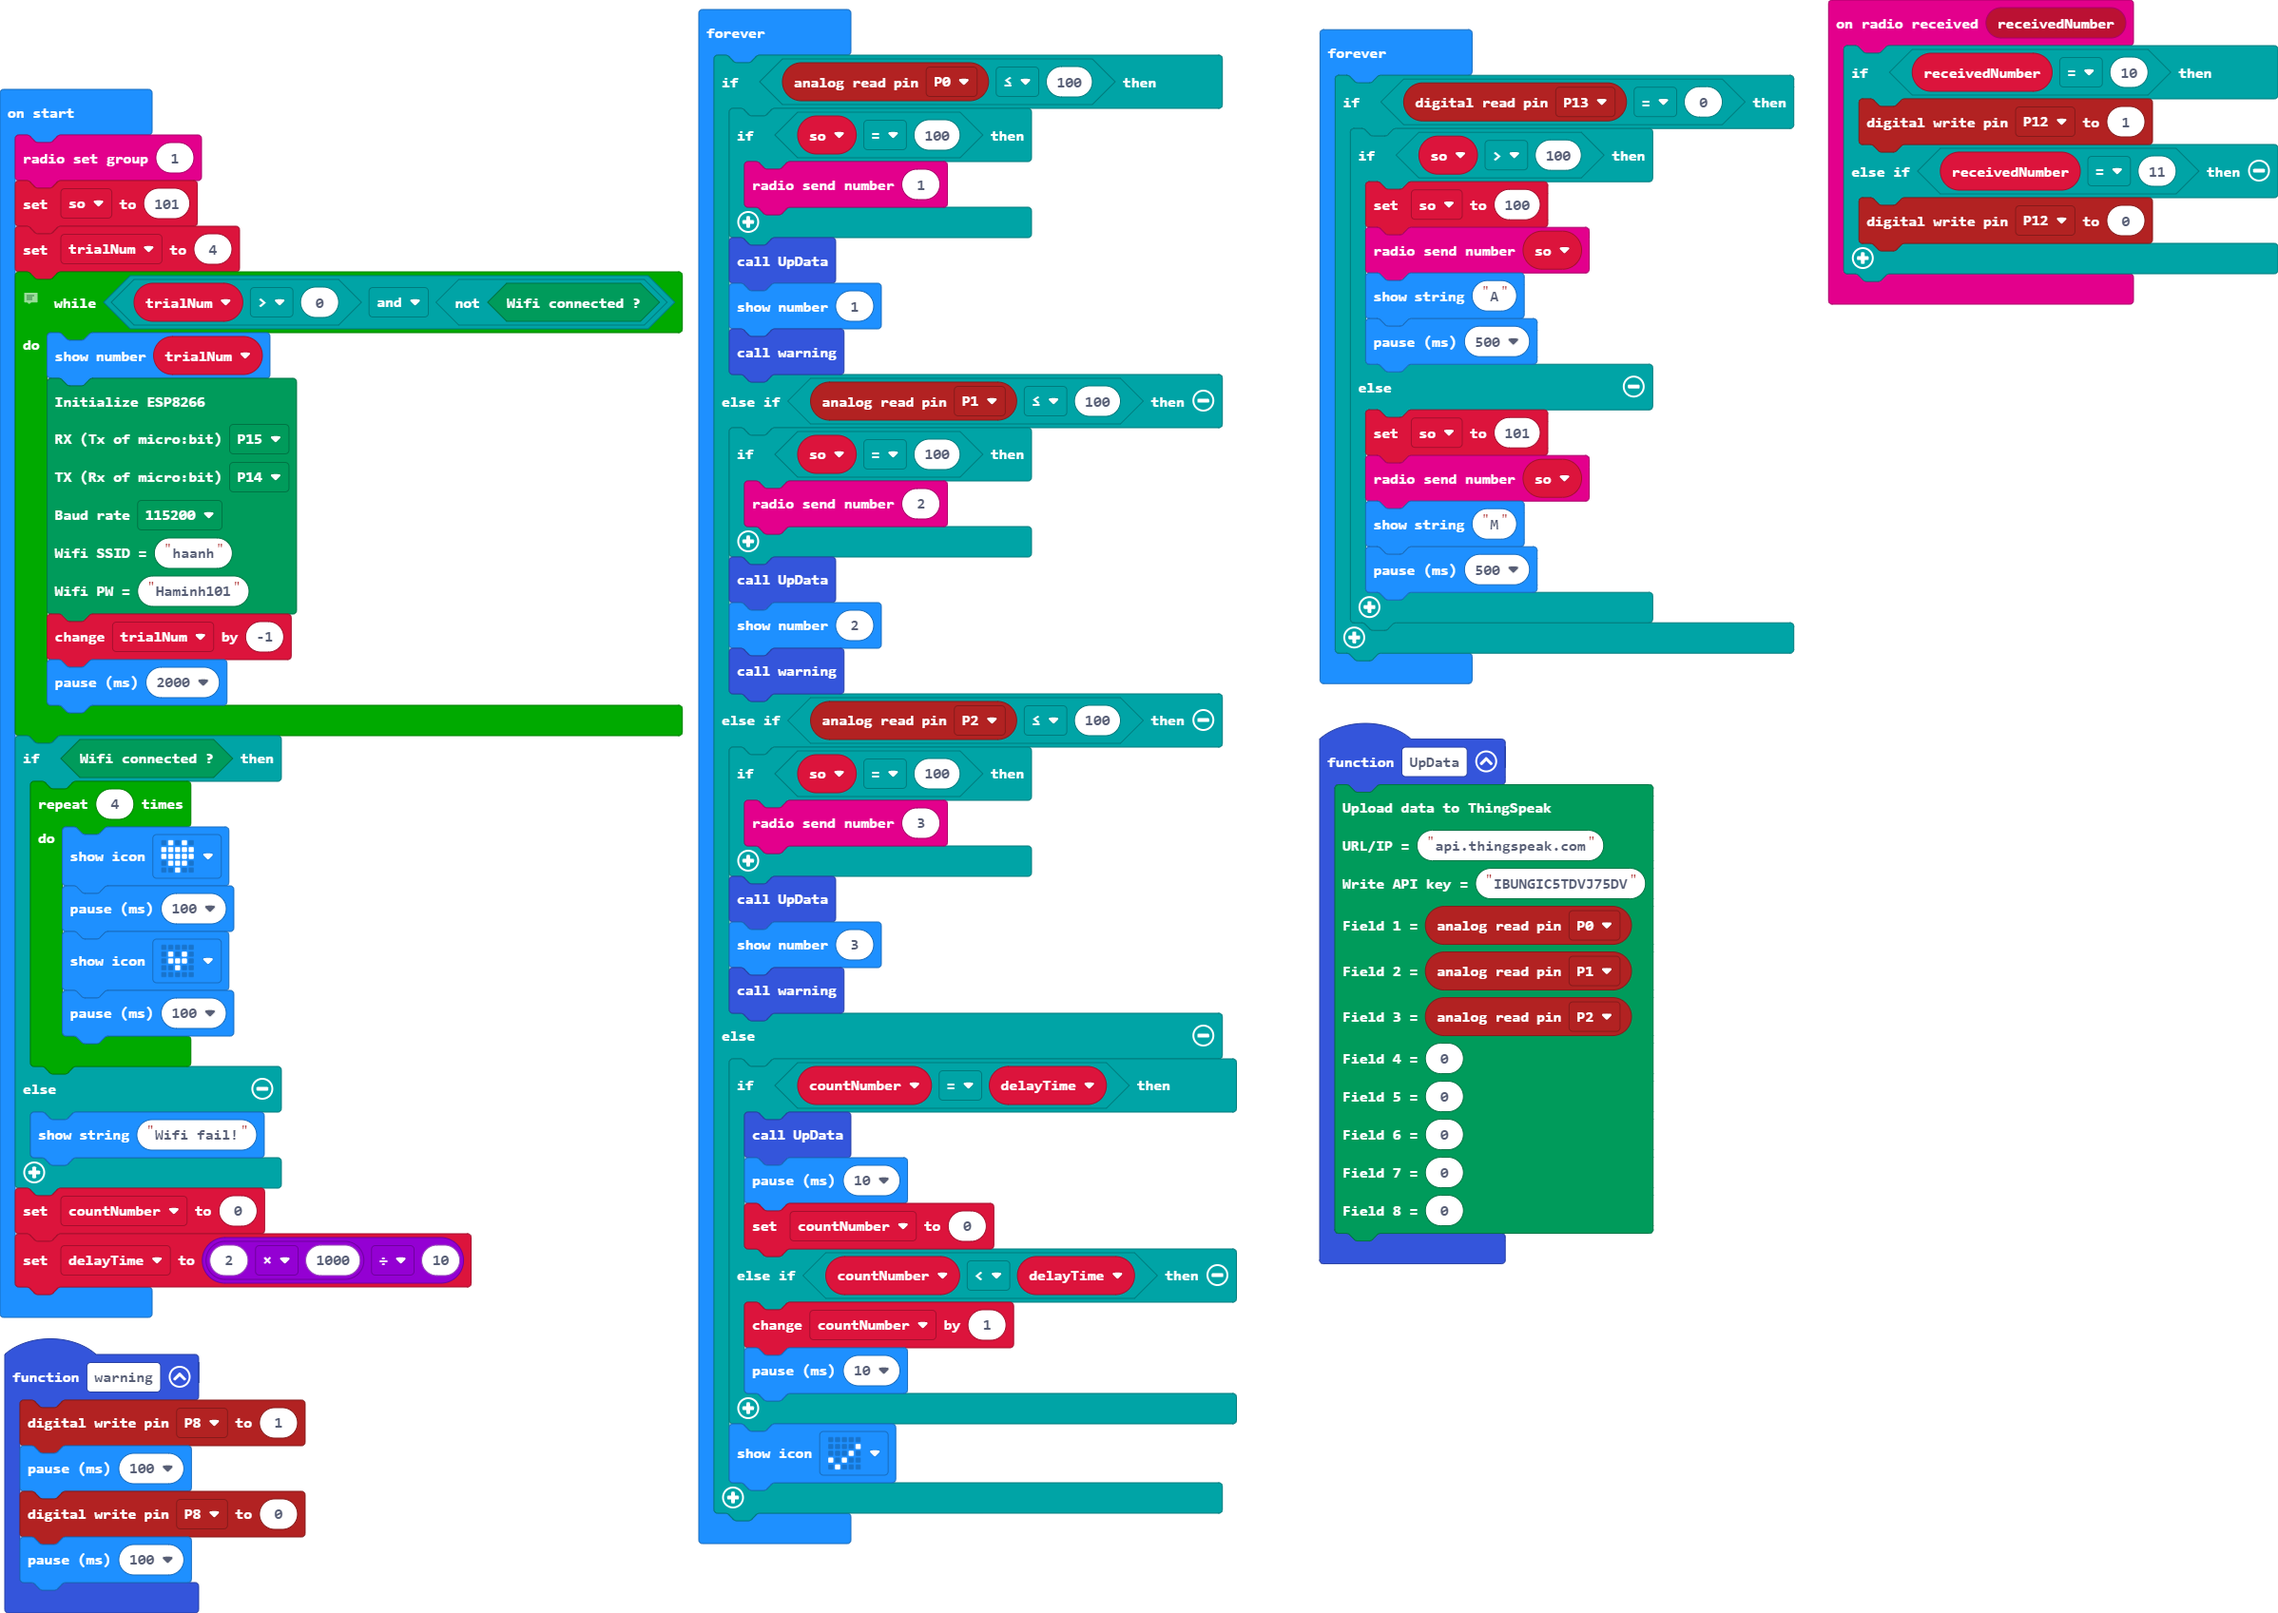
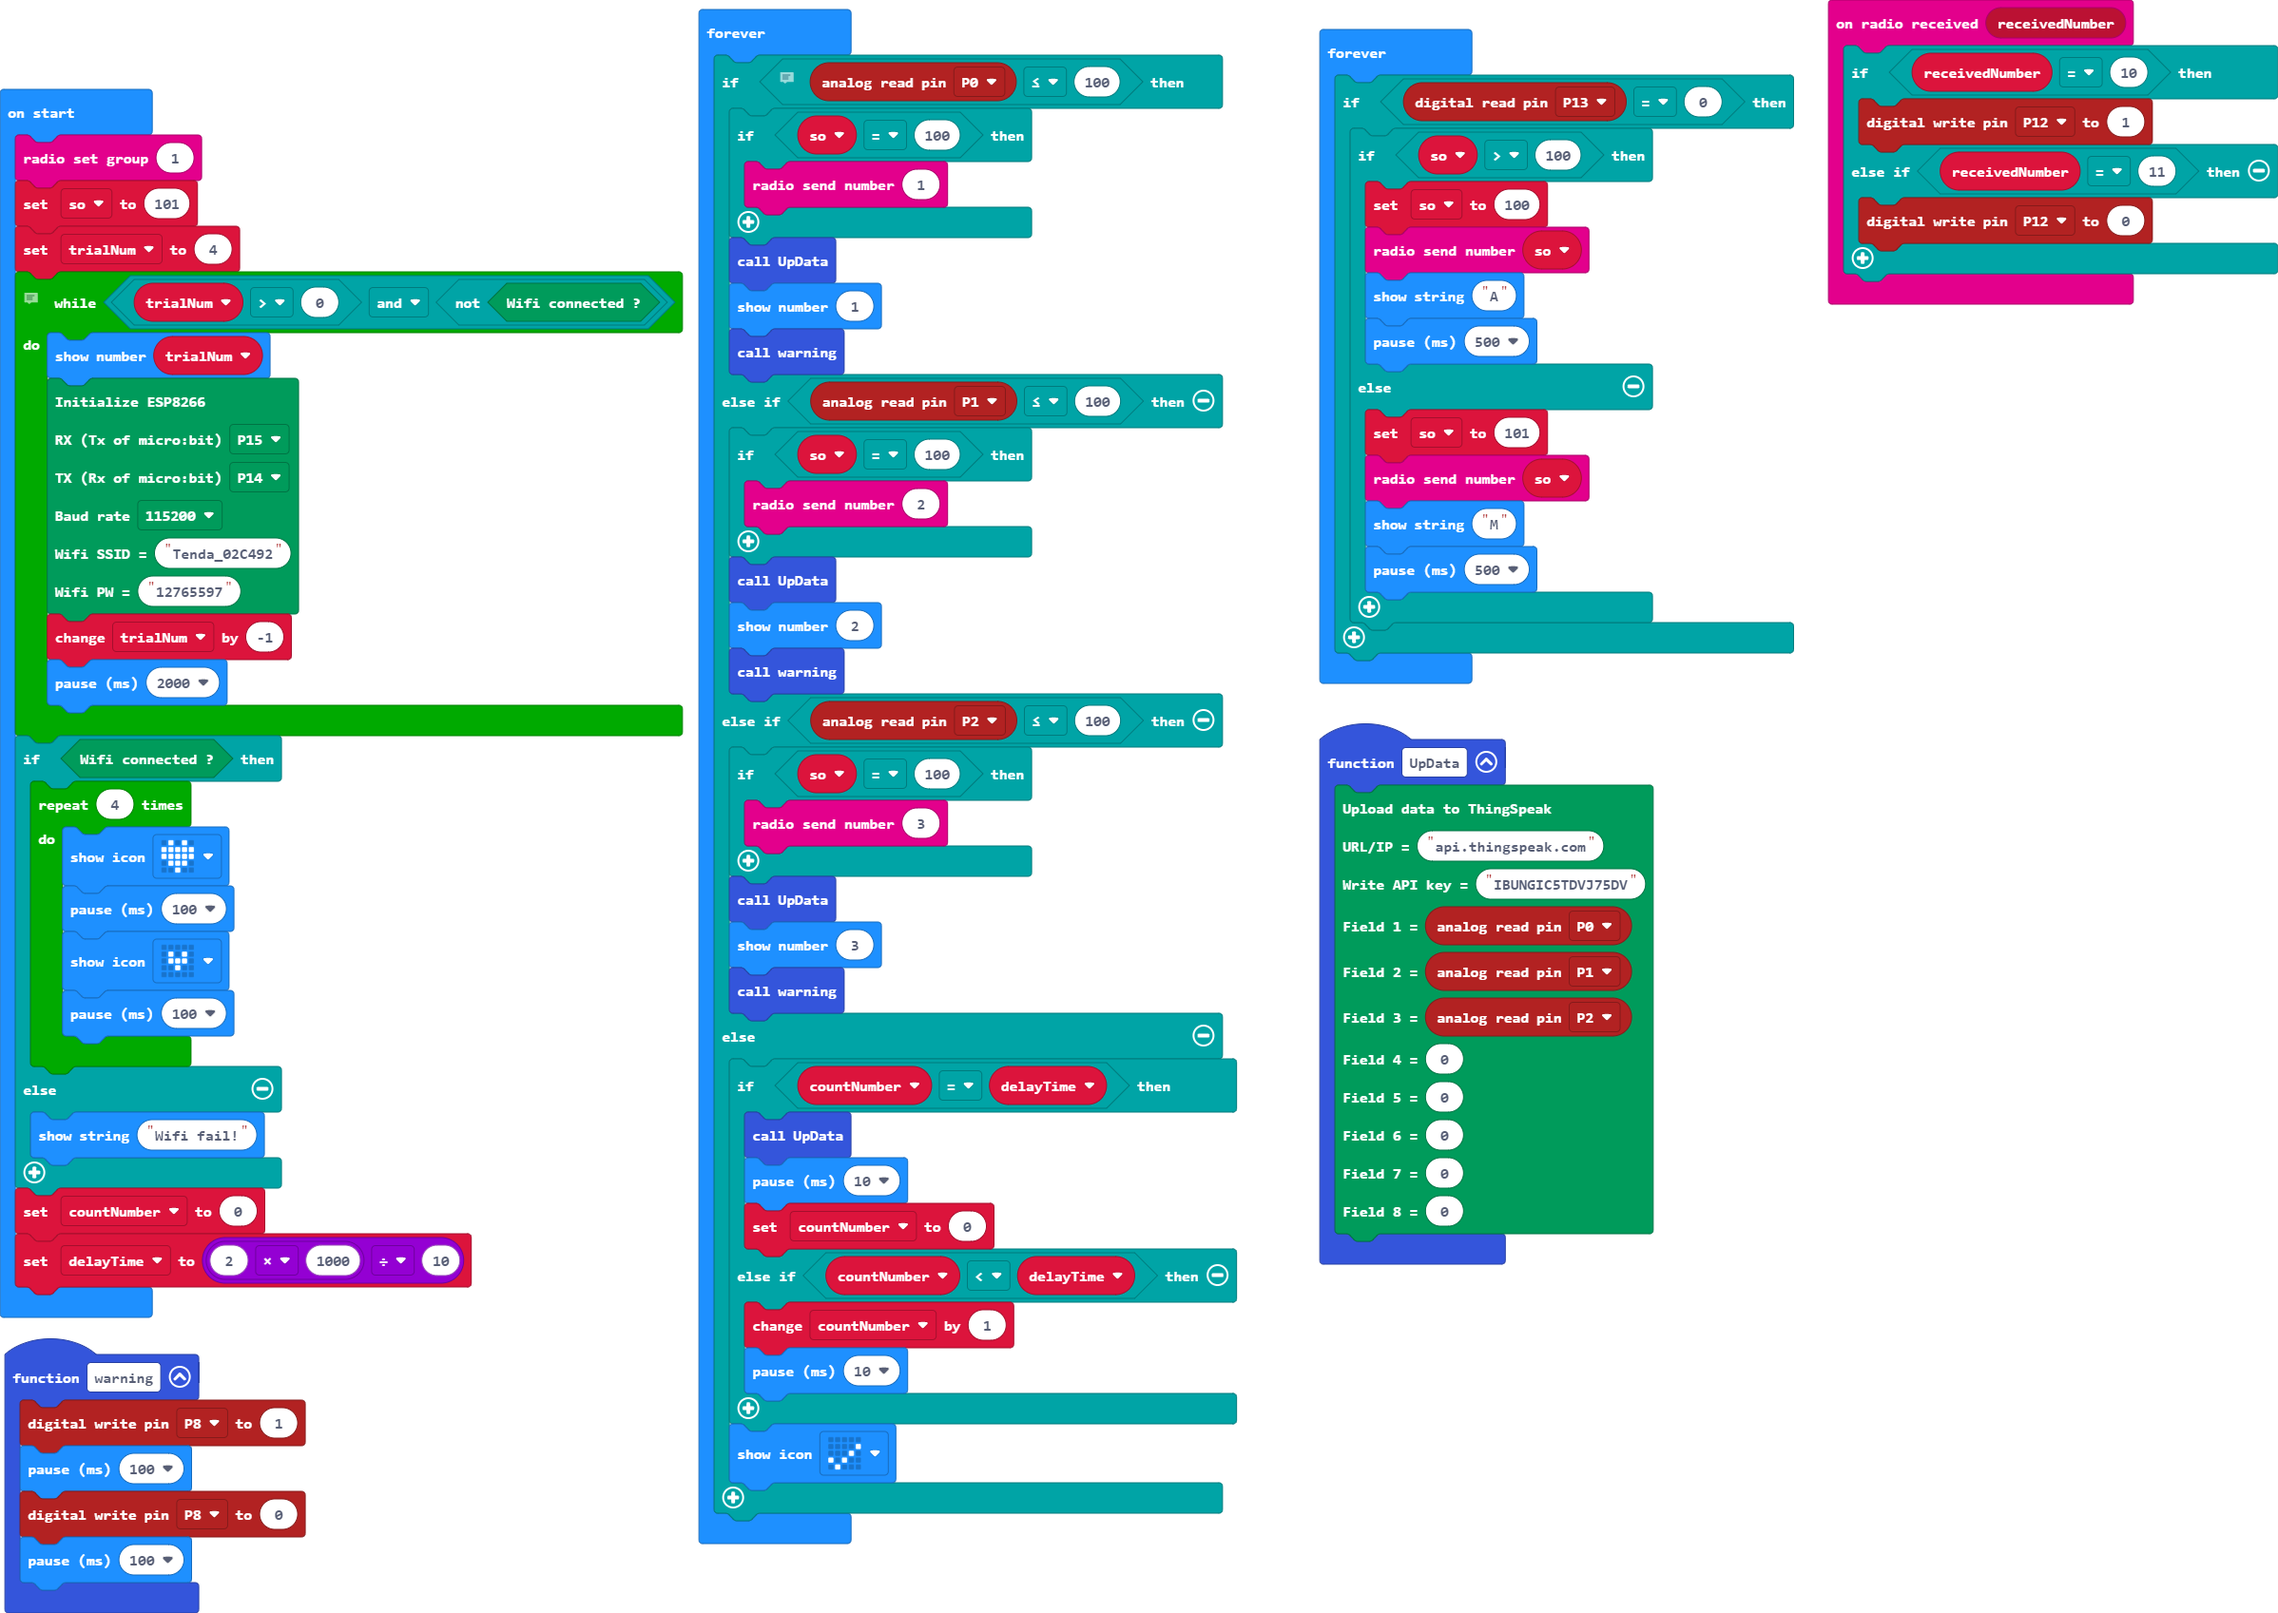
Update main.blocks, main.ts

diff --git a/main.ts b/main.ts
@@ -36,8 +36,8 @@ while (trialNum > 0 && !(ESP8266ThingSpeak.isWifiConnected())) {
     SerialPin.P15,
     SerialPin.P14,
     BaudRate.BaudRate115200,
-    "haanh",
-    "Haminh101"
+    "Tenda_02C492",
+    "12765597"
     )
     trialNum += -1
     basic.pause(2000)
@@ -55,6 +55,7 @@ if (ESP8266ThingSpeak.isWifiConnected()) {
 let countNumber = 0
 let delayTime = 2 * 1000 / 10
 basic.forever(function () {
+    // Chu y: Thay doi thong so nguong cua cam biem
     if (pins.analogReadPin(AnalogPin.P0) <= 100) {
         if (so == 100) {
             radio.sendNumber(1)
